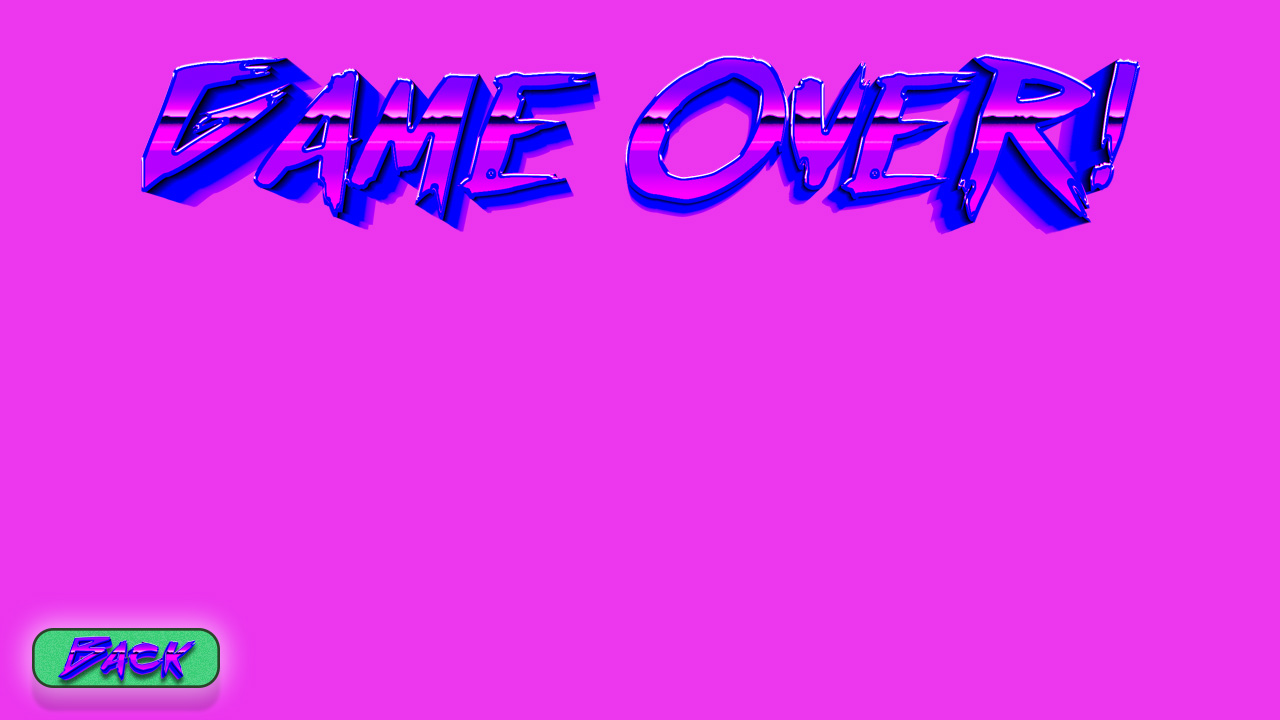
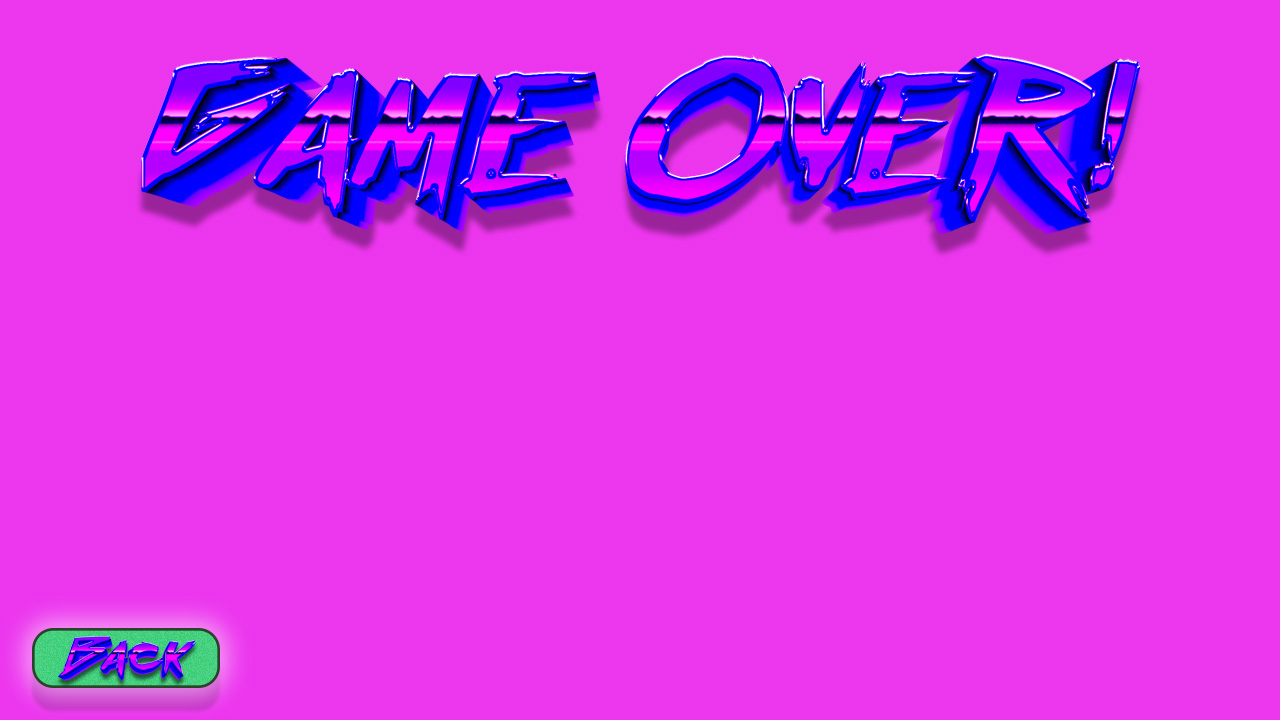
Finalized game over screen with player win text

diff --git a/Geometry_Bash/Geometry_Bash/Game1.cs b/Geometry_Bash/Geometry_Bash/Game1.cs
@@ -712,6 +712,14 @@ namespace Geometry_Bash
                 // game over screen
                 spriteBatch.Draw(gameOver, new Rectangle(new Point(0, 0), new Point(windowWidth, windowHeight)), Color.White);
 
+                if(player1.Health<= 0)
+                {
+                    spriteBatch.Draw(player2_wins, new Vector2(windowWidth/2 - 750/2, 300), Color.White);
+                }
+                else
+                {
+                    spriteBatch.Draw(player1_wins, new Vector2(windowWidth/2 - 750/2, 300), Color.White);
+                }
                 // changes back button if mouse hovers over
                 if (mouseLocation.Intersects(backButton))
                 { spriteBatch.Draw(back, backButton, Color.White); }
